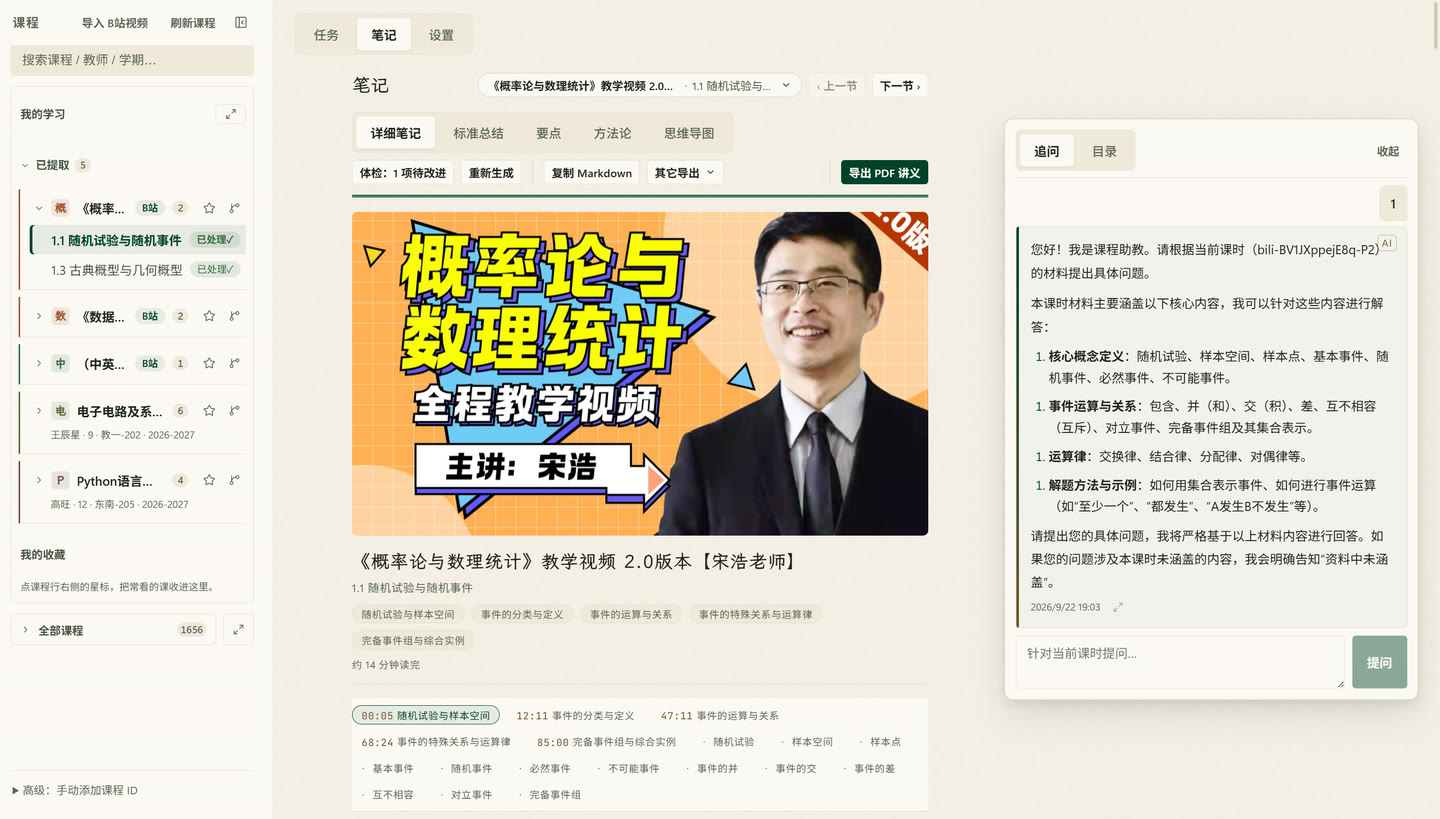
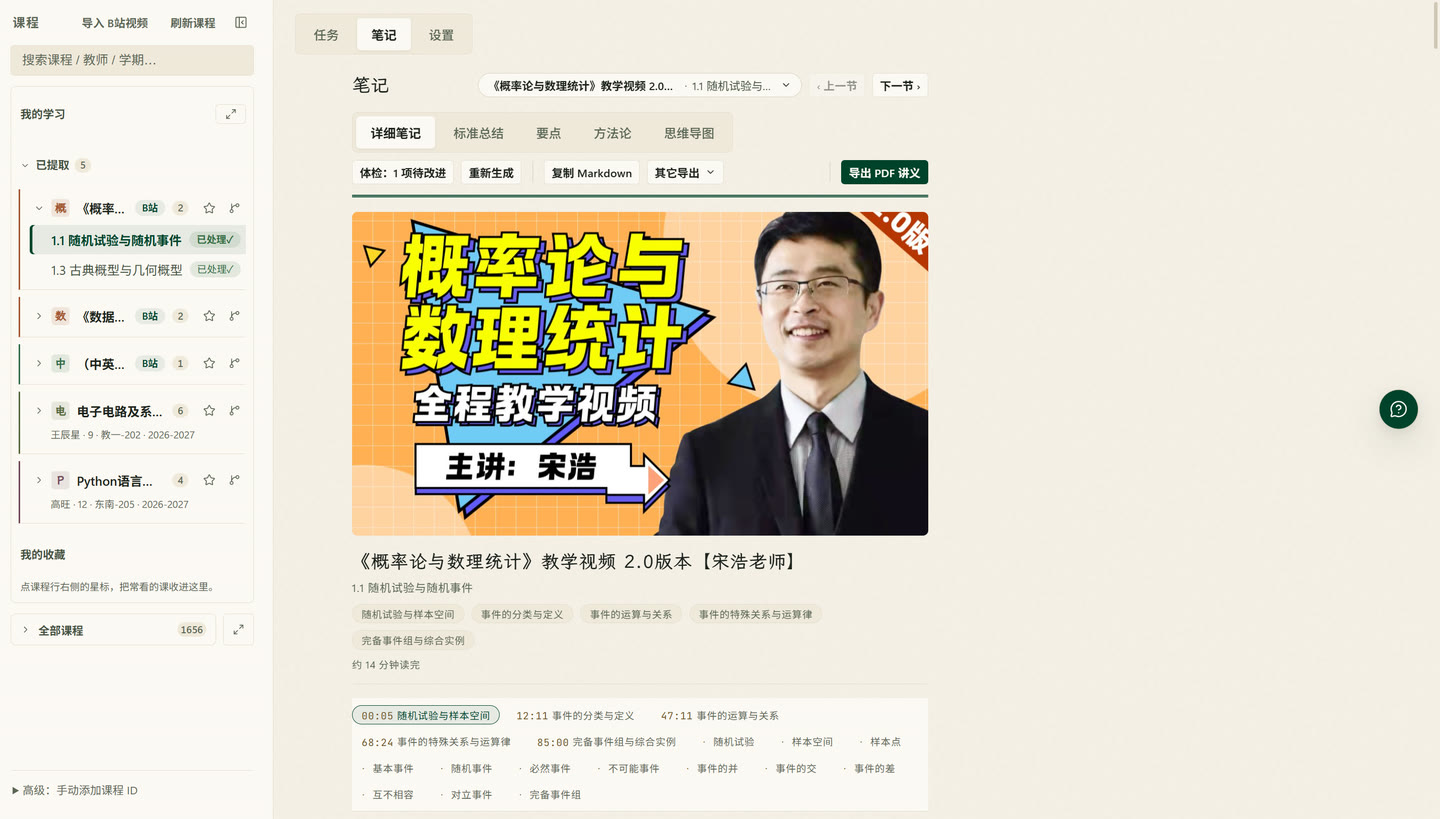
docs: README 配图二轮收敛——10 张减到 7 张、细节图改裁切构图
Andiii 试用反馈「图片有点多、部分图有瑕疵、排版不太好」：
- README 配图 10 → 7：hero / 核心流程 GIF / 四视图拼图 / 导图 / 任务卡 / 追问坞+PDF 讲义；B站入口由动图第②帧承载，不再单独占图。
- 排版：细节图全部按元素裁切取景（追问坞=笔记列+坞并集、任务卡=按钮行+六阶段卡并集），整窗截图不再缩进两列表格；四视图拼图瓦片统高 360，从高墙变横带；hero 收起追问坞，封面不再被压。
- 修 clip 截图被 zoom 吃掉 1/zoom 内容的 bug：第 6 阶段节点、坞右缘、四视图右缘此前全被切，现每次运行标定 zoom 系数后重裁。
- 退役资产 git rm（tasks/running/browser/empty/gate/bili/bili-preview/qa 旧图），总带宽 2.03MB → 1.22MB。

diff --git a/PROGRESS.md b/PROGRESS.md
@@ -5,6 +5,7 @@
 ## 当前状态
 
 - **README 门面整改 + 截图管线已落地（2026-10-06，方案 `docs/plans/2026-10-06-readme-screenshot-overhaul.md`，D1-D6 全按推荐裁）**：Andiii 转述其他 agent 反馈「仓库 README 作为电脑软件门面写得不太好、没有软件截图是大大扣分项」。**README 重写**：186 行/12,235 字 → 135 行，首屏 hero 实拍 + 一句话定位 + 按钮式下载；新增「界面一览」9 张真实界面截图（hero/任务流水线/四视图拼条/全部课程/追问坞/导图/PDF 讲义/B站导入×2）+ 核心流程 GIF（① 浏览课程 ② 导入即排队 ③ 笔记生成 ④ 追问 ⑤ 导图/PDF，DOM 字幕烧字）；功能表 13 行各压到一行；「当前状态」开发日志与全部内部批号/P 号移除（发布史归 CHANGELOG、台账归 PROGRESS）；**声明层摘要逐字保留**。**截图管线 `scripts/readme-shots.mjs`（新文件）**：真库副本（app.db **+ attachments**——修了 ui-shots 只拷 db 致笔记页截图缺时间线配图的 latent 缺口）→ CDP 机位走查 → user32 钉窗 1920×1200（校准边框 inset、实测 CSS 视口 1600、zoom 生效）→ 浅色主题 + toast 清理 → ffmpeg-static 裁自绘标题栏（44 css × dpr 换算）+ 缩放 + JPEG q3，产出 `docs/assets/readme/` **13 资产共 2.03MB**（manifest.json 记账，单张最大 239KB）。**公共库 `scripts/lib/ui-cdp.mjs`（新文件）**：ui-shots 的 CDP/等待/闸门/钉窗抽出共享，readme-shots 复用。**回归（批1 验收）**：ui-shots 默认模式复跑 9 机位全过；`--bili` 与 `--compliance` 两模式失败**与 HEAD 原版在相同条件下报错逐字一致**（--bili 假设未登录态——dev userData 现有会话时直接导入不出二维码；--compliance 的「导出 Markdown」选择器陈旧——按钮已改「复制 Markdown」），均为既有问题、非本次回归，已记 CHANGELOG [未发布] 待后续修。**`docs/ARCHITECTURE.md`（新文件）**：架构 ASCII 与项目结构从 README 迁入，IPC 通道数订正 66→**69**（实测 ipc.ts 69 个 handle 注册）。本批不碰 src/、不 bump 版本、无用户可见承诺变化；按 D1=A 截图直接用真实课程库画面（与已公开 promo.mp4 同源同口径）。
+- **README 配图二轮收敛（2026-10-07，同属未发布的 README 整改）**：Andiii 反馈「图片有点多、部分图有瑕疵、排版不太好」——README 配图 10 张 → **7 张**（hero / 动图 / 四视图拼图 / 导图 / 任务卡 / 追问坞+讲义 / B站入口进动图②）；细节图全部改**元素裁切**取景（追问坞=笔记列+坞并集、任务卡=按钮行+卡片并集），不再把整窗截图缩进表格；hero 先收起追问坞再拍（宽屏 auto 恒展开会压住封面）。**实跑揪出一个真 bug：带 clip 的截图按 DSF(1.5) 出图而页面有 zoom(1.187)，请求的 CSS 矩形只覆盖 1/zoom 的内容**——第 6 阶段节点、坞右缘、四视图右缘全被切；修法=每次运行标定 zoom 系数（全窗宽度/CSS 宽 vs 探针 clip 宽度/请求宽）并把 clip 矩形整体乘上。另加守卫：任务卡只在「存活且已有进度」时拍（本轮实拍抓到一次 LLM 端点 SSL 失败态，已弃用重拍）。总带宽 2.03MB → 1.22MB。
 - **已发布 v0.7.14（2026-10-01，按 scripts/release.md 走完；Andiii「发布吧」）**：版本 0.7.13→**0.7.14**（发布准备提交 `cde3ae8`：package.json/lock 版本 + CHANGELOG [未发布] 收编为 [0.7.14] + README/PROGRESS；tag 打在同一提交）。**§1 门禁（实跑）**：lint 0 / typecheck 0 / test **1604 passed / 144 files** / build 成功 / smoke 41/41；git status 干净。**CI 与 Smoke 两条工作流对 `cde3ae8`（=tag 提交）均 success**。**§3 构建**：`npm run dist` → `release/Flash Summary Setup 0.7.14.exe`（160,023,271 B）+ blockmap + `release/latest.yml`（version 0.7.14，sha512/size 与 exe 匹配）；installer-license.txt BOM 程序化核验 OK。**§4 asar 抽验**：**asar verification OK: 620 files match (sha256)**。**§4.5 打包冒烟**：`node scripts/smoke-cdp.mjs --packaged` → **SMOKE PASSED: 41/41**。**§5 发布**：`git tag v0.7.14` 打在 `cde3ae8`（已核 `git log --oneline -1 v0.7.14`）；push master + tag；GitHub Release：https://github.com/Andiii208/flash-summary/releases/tag/v0.7.14 （资产 **Flash.Summary.Setup.0.7.14.exe** 160,023,271 + **latest.yml** 358 两件，checklist `grep -x latest.yml` 过；渠道 URL 302→CDN 正常）。**如实记一笔**：exe 上传连续撞 `uploads.github.com` EOF——根因是 Clash Fake-IP 把该域名解析到 172.19.0.84（TUN 死路，api.github.com 正常、uploads 不通）；显式 `HTTPS_PROXY=http://127.0.0.1:7890` 后一次传成，**未改用户代理配置**。另：v0.7.13 的 latest.yml 已于同日先行补传（见上条），本版流程已防再犯。**留给 Andiii**：装机更新到 0.7.14 后点一次「检查更新」（应「已是最新」）；打开存量 B 站笔记确认穿插。
 - **2026-10-01 两个实测问题修复（已随 v0.7.14 发布；plan docs/plans/2026-10-01-note-inline-images-and-updater-feed.md；Andiii 试用 0.7.13 报「截图不穿插全堆文末」+「检查更新 latest.yml 404」→「都按照你推荐的去做，按计划一步步执行」→末了「发布吧」）**：**① 根因1（穿插回归）**：`NoteBlocks.tsx` TimelineCards 的配图贪心分配 memo（P32，`91b8e31`，v0.7.10+）依赖数组漏 `attachmentVersion`——附件懒加载首渲染全 undefined → 分配为空，解析完成后的版本 bump 无法触发 memo 重算 → 卡片永久零图、截图全进文末图集（0.7.8 逐渲染重算所以老笔记穿插）；`NoteViewer.imageCoverage` 同型令体检误报「均无配图」。修复=两处 memo 依赖补 version（同文件 coverSrc 早有正确口径，作者当时知道这个坑、这两处漏了）。**双向验证做实**：修复版 83/83；改回漏依赖新回归转红；恢复。存量笔记无需重新生成，切视图 tab 即自愈。**② 根因2（更新 404）**：electron-builder 随包生成 `release/latest.yml`，但 scripts/release.md 发布命令只传 Setup exe——v0.7.13 及历史上全部 13 个 release 都没这个资产，electron-updater GitHubProvider 必须抓到它才能比版本，硬 404（smoke 把 error 当合法态所以冒烟全绿掩盖了它）。**补救已执行**：`gh release upload v0.7.13 release/latest.yml`——资产 358B 就位、经 asset API 下载与本地逐字节一致、真实 download URL（…/releases/download/v0.7.13/latest.yml）200。**流程修正**：release.md §3 清单 + §5 命令（两资产一起传）+ checklist 只读自检 + 漏传补救路径（upload 追加、不必删 tag 重发）；9-30 方案「release.md 不变」表述已订正。**③ 附带**：`update.ts` 检查失败脱敏——原始 message（含 URL 与 createHttpError 堆栈）只经注入的 `onCheckFailure` 进日志（index.ts 装配接 logger.warn），UI 收分类短句（ERR_UPDATER_CHANNEL_FILE_NOT_FOUND=渠道缺失 / 其它=网络或发布服务器无响应）；原「透传原文」测试断言按新契约改写（产品行为有意变更，非造绿）。**门禁**：全量 1604 passed / 144 files + lint/typecheck/build/smoke 全绿。提交 `1b65b29`（穿插回归）/ `71cd5ea`（release.md）/ `3aaf183`（脱敏）/ `0d23570`（记账）/ `cd76fef`（P13 竞态根治）。**留给 Andiii**：装机点一次检查更新（应「已是最新版本 0.7.13」）；打开存量 B 站课时直接看详细视图即穿插（无需切 tab）。
 - **同日收尾追加（洁癖检查时 CI 实锤一条复现 flaky，已根治）**：记账提交 `0d23570` 上 CI 报 `app-shell` P13（全屏浏览器点「导图」→ Esc 只关一层）偶发红——与 0.7.13 发布记录里「修掉」的是同一条，**实锤上次只治了标**（窗口 3s→8s 没碰竞态本身）。根因：CourseMapDialog 的 Esc 监听挂 `useEffect`，而 `waitForSelector/waitForGone` 见到的是已提交 DOM，同一个 flush 队列未跑完时派发 Esc 直接丢事件，之后只能蹲满 8s 超时（CI 全负载下 flush 滞后过半，本地快机不复现）。修法：新增 `waitForModalLayer()` 护栏等 `body.overflow=hidden`（scroll-lock effect 与 Esc 监听同一组件、同一同步 flush、声明在先），只加在两条 P13「异步开弹层后立刻派发键」处；其余 6 处按键派发逐一核查（act 内挂载或显式 macrotask 等待）无此竞态。验证：app-shell 连跑 5×44 全绿 + 全门禁复绿（1604/144）。提交见 git log。

diff --git a/CHANGELOG.md b/CHANGELOG.md
@@ -8,7 +8,7 @@
 
 ### 文档
 
-- **README 门面重写**：旧版 186 行面向贡献者（功能表单元格 300–600 字、混内部批号与「试用实测」记录、「当前状态」是开发日志），访客三问（是什么/长什么样/去哪下载）全在第四屏以后，且全文零截图。新版 135 行：首屏 hero 实拍 + 一句话定位 + 按钮式下载入口；新增「界面一览」——9 张真实界面截图 + 核心流程 GIF（浏览课程 → 导入即排队 → 笔记生成 → 追问 → 导图/五视图/PDF）；功能表压缩为一行一条；「当前状态」版本信息并入安装节；内部批号/P 号/装机走查项全部移除（发布史归 CHANGELOG、开发台账归 PROGRESS）。**声明层摘要（隐私与安全 + 合规与使用声明）逐字保留**，无任何新增用户可见承诺。
+- **README 门面重写**：旧版 186 行面向贡献者（功能表单元格 300–600 字、混内部批号与「试用实测」记录、「当前状态」是开发日志），访客三问（是什么/长什么样/去哪下载）全在第四屏以后，且全文零截图。新版 132 行：首屏 hero 实拍 + 一句话定位 + 按钮式下载入口；「界面一览」收敛为 7 张配图（hero + 核心流程 GIF + 四视图拼图 + 导图 + 任务卡 + 追问坞/PDF 讲义），细节图按元素裁切取景（整窗截图缩进表格会看不清）；功能表压缩为一行一条；「当前状态」版本信息并入安装节；内部批号/P 号/装机走查项全部移除（发布史归 CHANGELOG、开发台账归 PROGRESS）。**声明层摘要（隐私与安全 + 合规与使用声明）逐字保留**，无任何新增用户可见承诺。
 - **新增截图管线 scripts/readme-shots.mjs**：真库副本（app.db + attachments）CDP 实拍 README 机位 → user32 钉窗 1920×1200（zoom 口径实测 CSS 视口 1600）→ 浅色主题 → ffmpeg-static 裁自绘标题栏 + 缩放 + JPEG，产出 docs/assets/readme/ 13 资产共 2.03MB（manifest.json 记账）；GIF 以 DOM 字幕烧字，零字体依赖。**UI 大改后重跑即重建**，防腐烂纪律已写入 AGENTS.md 命令节。
 - **dev 脚本公共库抽取 scripts/lib/ui-cdp.mjs**：ui-shots 的 CDP 客户端/等待助手/闸门走查/钉窗等抽为共享模块，readme-shots 复用（纯机械重构，ui-shots 默认模式复跑一致）。顺带修一个 latent 缺口：ui-shots 的库副本从前不拷 attachments/，笔记页截图一直缺时间线配图。
 
